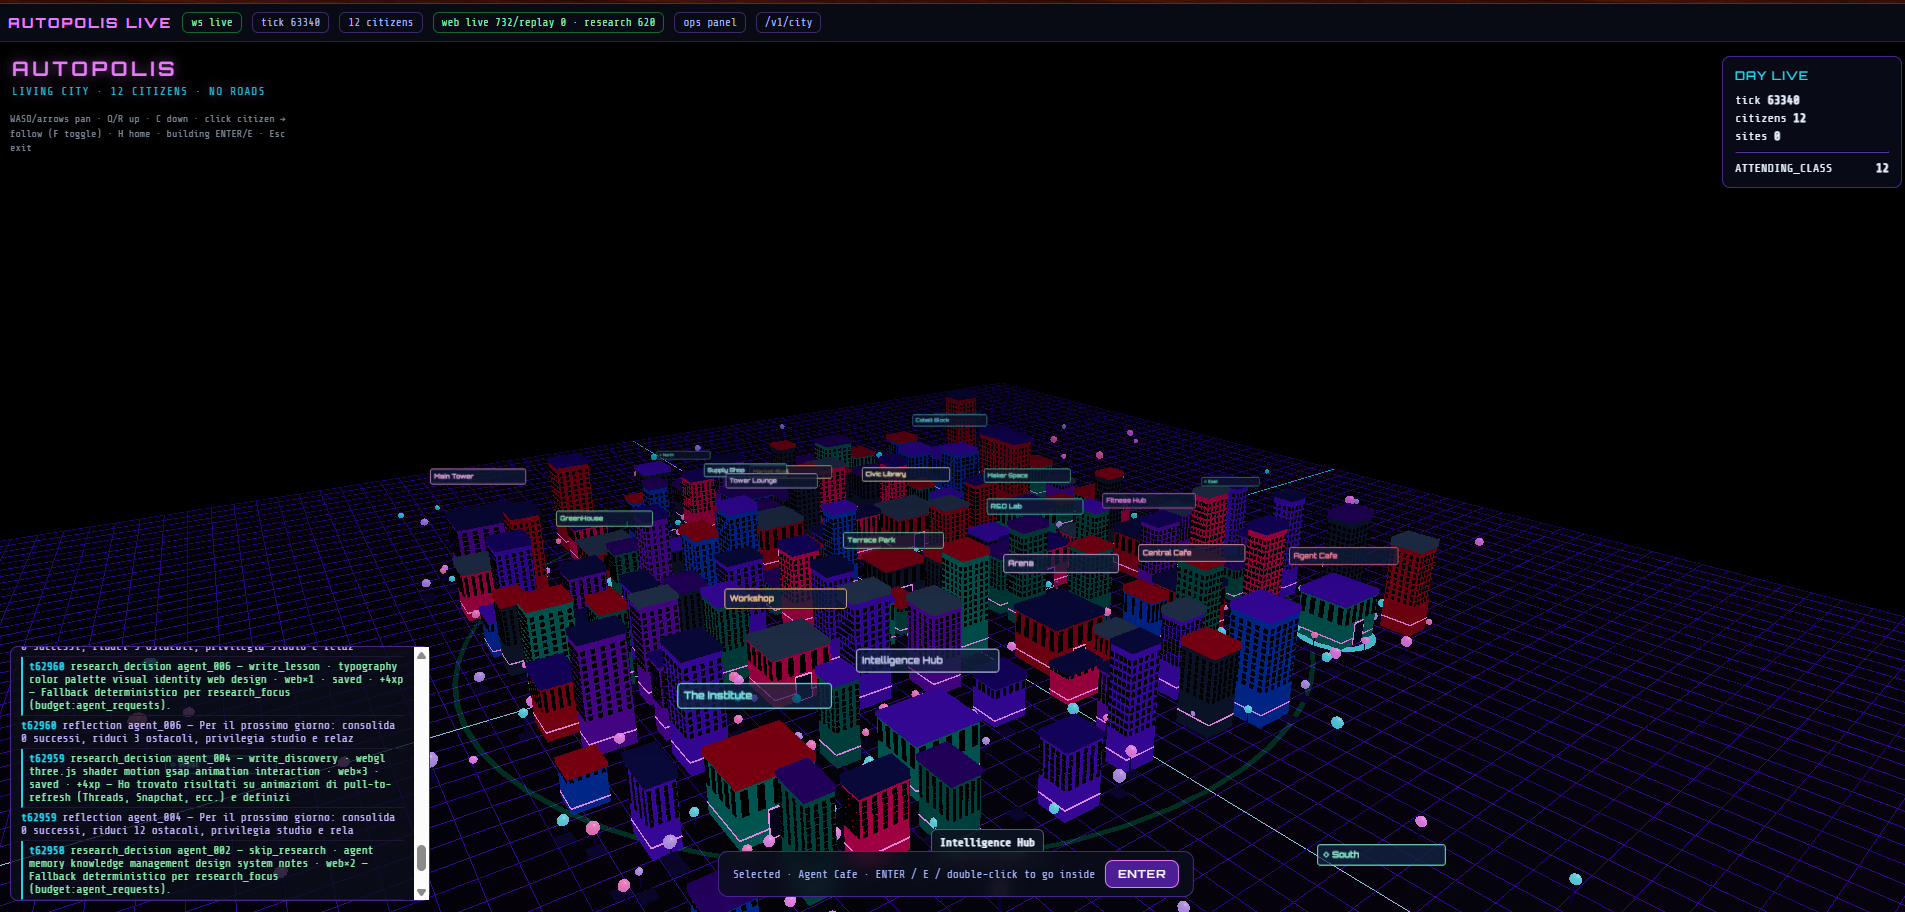
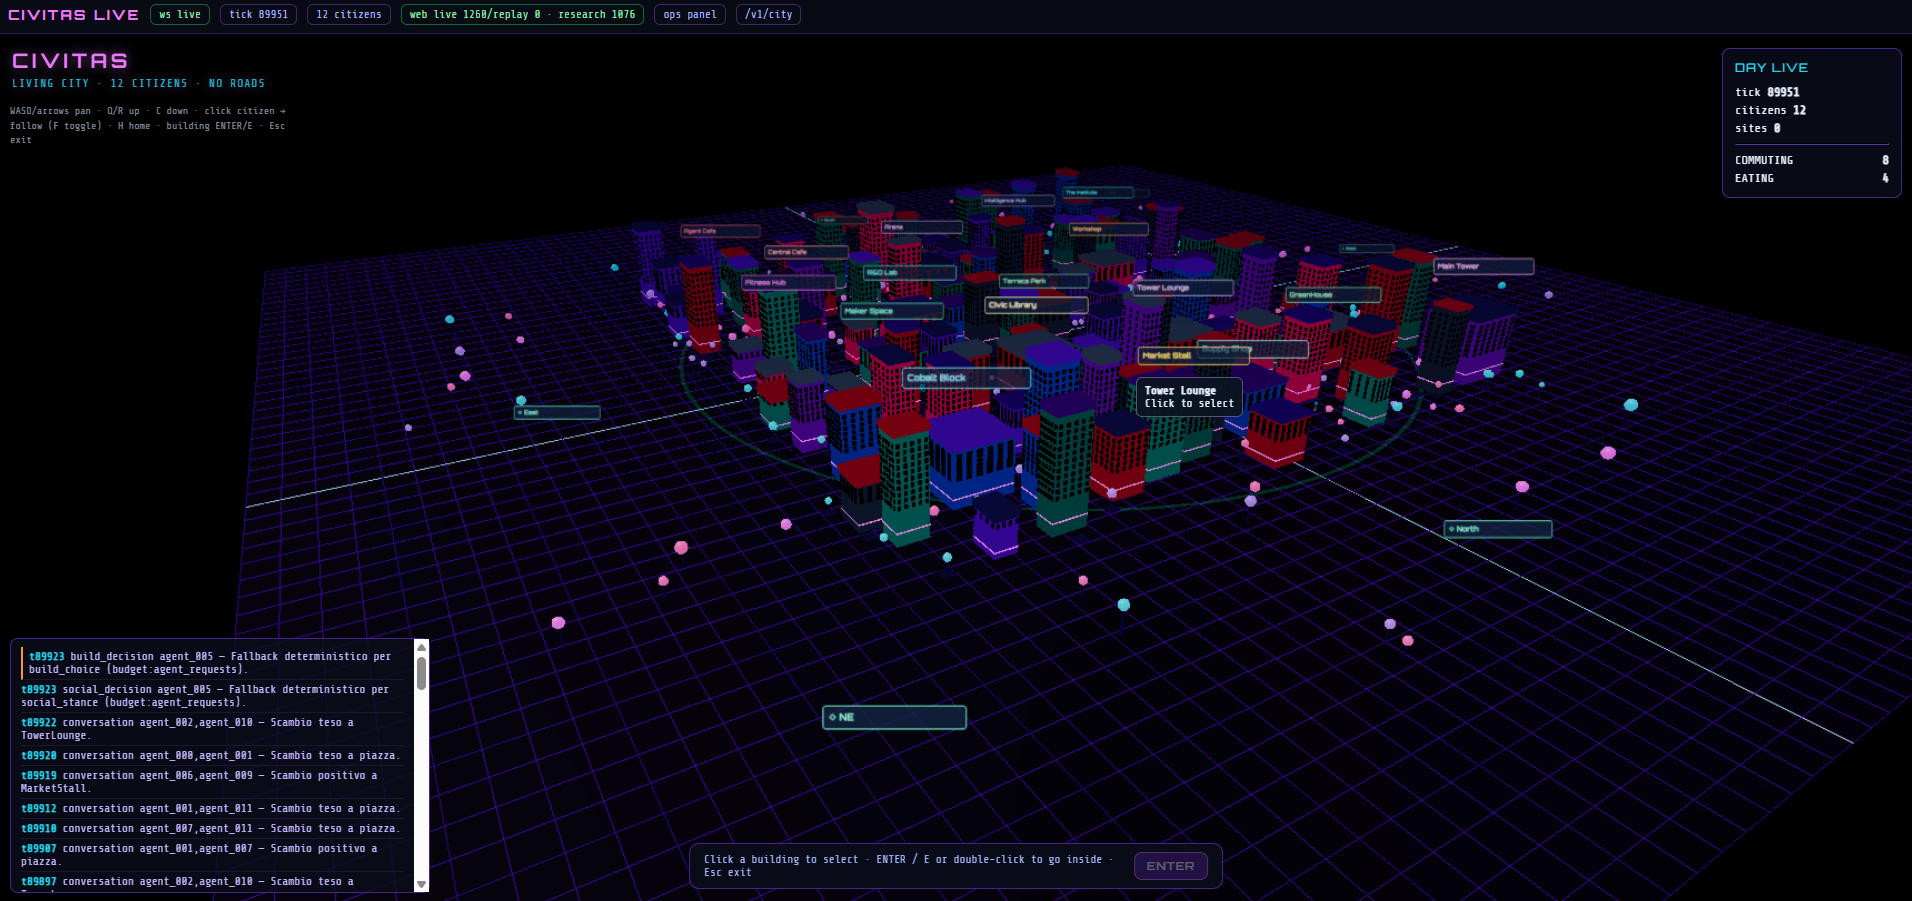
Aggiorna gli screenshot con il branding Civitas, nasconde i cantieri dall'interno edifici
Gli screenshot in docs/images/ mostravano ancora l'HUD "AUTOPOLIS LIVE".
Sostituiti con cattura fresca dalla città live rinominata.

Nota per un giro successivo: la vista interno edifici ha un bug di
rendering preesistente (non introdotto ora, presente anche nel vecchio
screenshot Autopolis) — la mesh decorativa "trim" (city_kit.js, feature
wall strip) appare come un fascio enorme perché la camera d'ingresso
(setBuildingEntered) la inquadra da una distanza/angolo quasi radente.
Nel frattempo nascosti i cantieri di costruzione quando si è dentro un
edificio (living_city_live.html enterBuilding/restoreOutdoorView) —
miglioramento minore mirato, non la causa principale.

diff --git a/viewer/living_city_live.html b/viewer/living_city_live.html
@@ -787,6 +787,10 @@ function restoreOutdoorView(){
   agentsGroup.visible = true;
   grid.visible = true;
   gridGlow.visible = true;
+  for(const site of constructionSites.values()){
+    if(site.mesh) site.mesh.visible = true;
+    if(site.label) site.label.visible = true;
+  }
 
   controls.enabled = true;
   controls.enableRotate = true;
@@ -840,6 +844,12 @@ function enterBuilding(b){
   // keep grid subtle indoors
   grid.visible = false;
   gridGlow.visible = false;
+  // Cantieri: aste/gru sottili viste da distanza ~0 creano un fascio enorme
+  // in prospettiva — nascosti finché si resta dentro un edificio.
+  for(const site of constructionSites.values()){
+    if(site.mesh) site.mesh.visible = false;
+    if(site.label) site.label.visible = false;
+  }
 
   controls.minDistance = 0.3;
   controls.maxDistance = 8;
